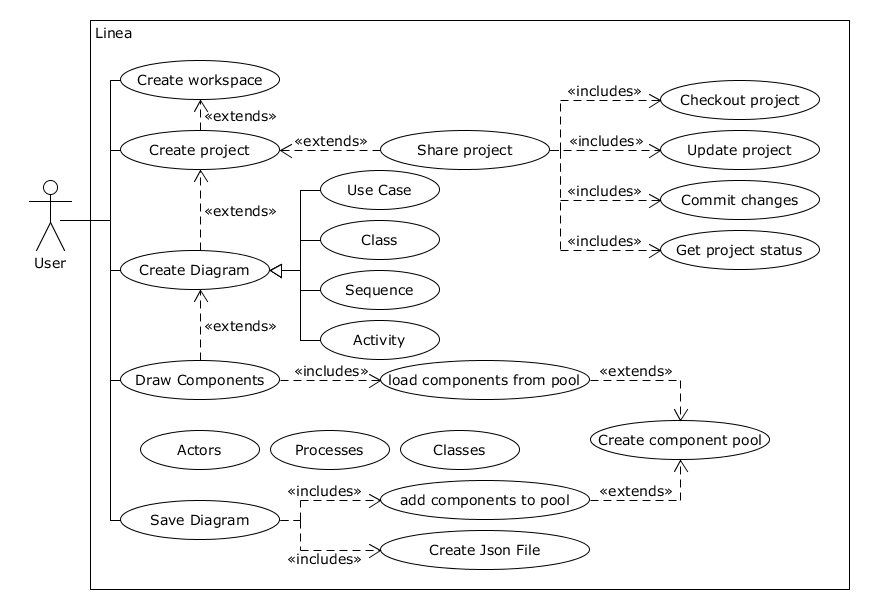
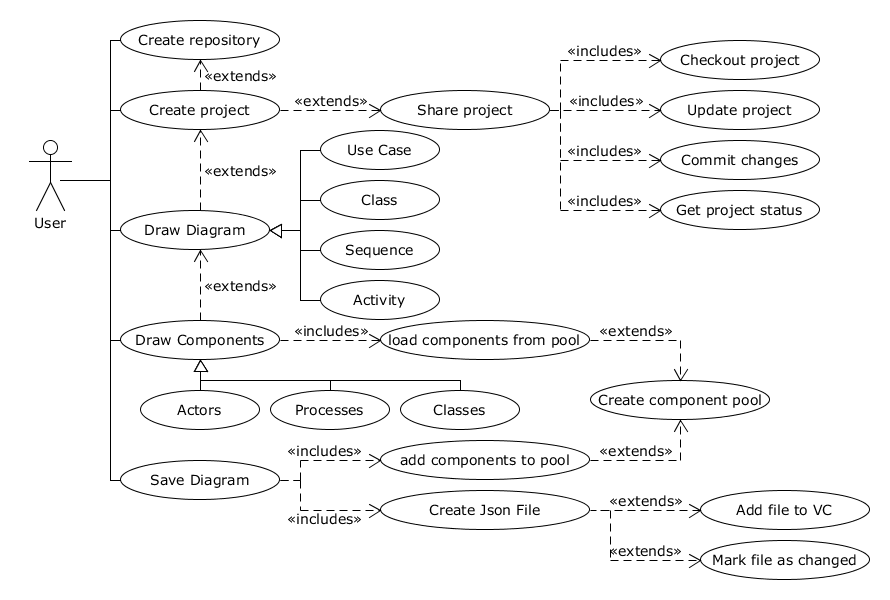
Added information on the project on the README.md file; updated the use-case diagram.

Changed region(s): [[0.031, 0.03, 0.9931, 0.99], [0.031, 0.42, 0.0931, 0.45], [0.9621, 0.84, 0.9931, 0.87]]

diff --git a/README.md b/README.md
@@ -1,0 +1,18 @@
+# spr
+Seamless Project Maker aims to be a simple, lightweight and fast UML CASE tool to design projects.
+
+It's inspired by both Umlet's simplicity and Enterprise Architect's powerful features:
+
+* Cross-platform;
+* Simple interface:
+** drag components from the component palette to the canvas;
+** auto-layout option (draw and forget);
+** programmable diagrams: use plain text and auto-complete to quickly import link components and create UML diagrams.
+* Manage the project's lifecycle:
+** Create, import and share entire projects;
+** Components are *linked* to diagrams, so that changes to a component reflects on every diagram it is used;
+** Export files to eps, pdf, jpg, png, from a single diagram to the entire project;
+* It supports version control systems (such as SVN and GIT) to share projects:
+** Faster and easier than using a DBMS repository, safer than a shared network directory;
+** No need to lock diagrams or projects before working on them;
+** Use built-in or external commands to import, update or commit changes to a project;
